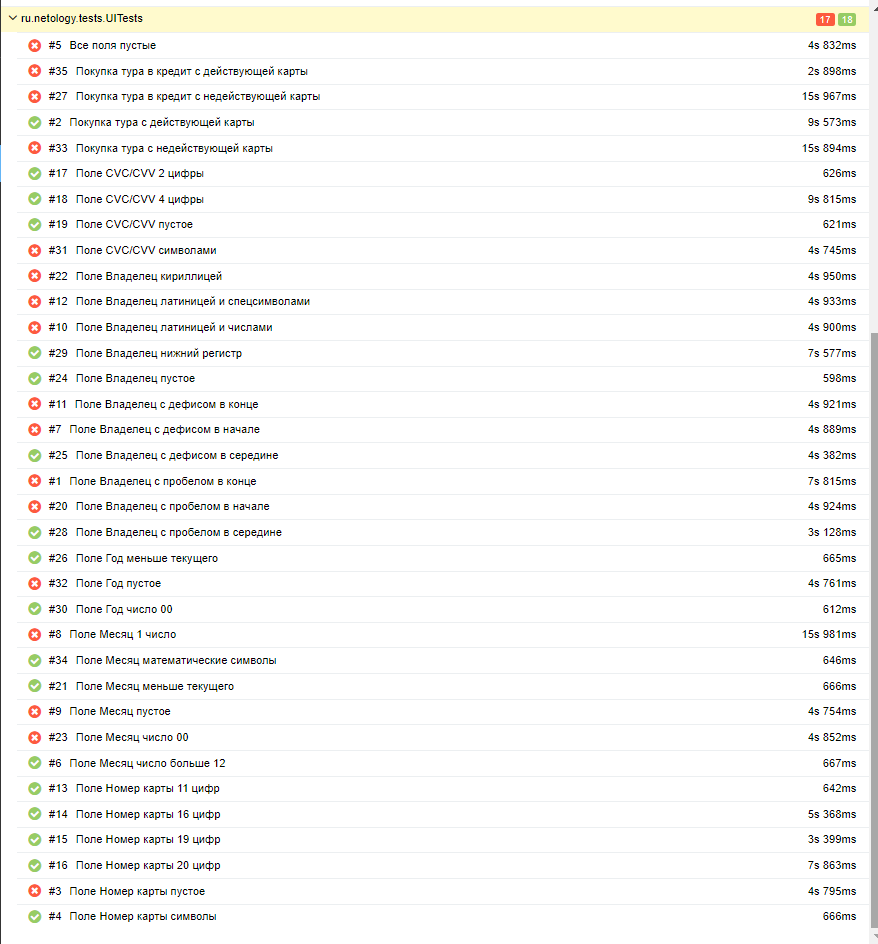
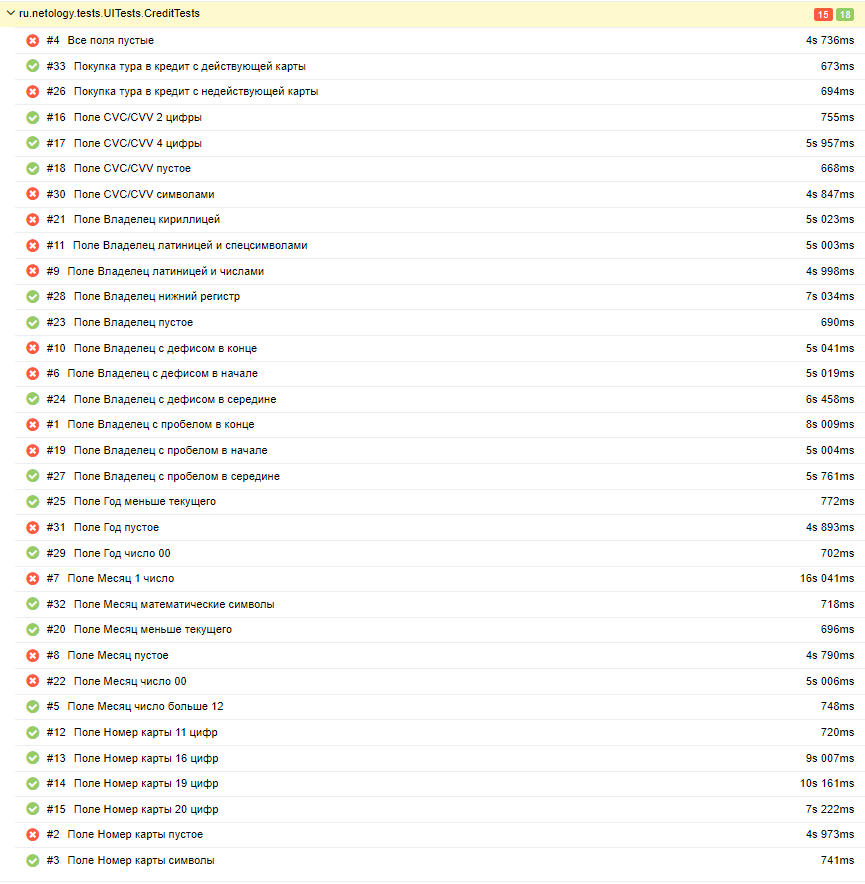
change tests

Changed region(s): [[0.0, 0.0, 1.0, 1.0]]

diff --git a/src/test/java/ru/netology/tests/UITests/PaymentTests.java b/src/test/java/ru/netology/tests/UITests/PaymentTests.java
@@ -39,9 +39,10 @@ public class PaymentTests {
 
     // Positive tests
 
-    @DisplayName("Покупка тура с действующей карты")
+
+    @DisplayName("Покупка тура с действующей карты ")
     @Test
-    public void shouldValidCardApproved() {
+    public void shouldValidCardApproved_2() {
         var mainPage = new MainPage();
         var cardInfo = DataHelper.getValidCardApproved();
         var paymentPage = mainPage.paymentButtonClick();
@@ -49,7 +50,6 @@ public class PaymentTests {
         var payments = SQLHelper.getPayments();
         assertEquals("APPROVED", payments.get(0).getStatus());
     }
-
     @DisplayName("Покупка тура с недействующей карты")
     @Test
     public void shouldValidCardDeclined() {

diff --git a/Reports/Report.md b/Reports/Report.md
@@ -11,15 +11,14 @@
 
 ## Количество тест-кейсов 
 
-Всего в тестировании проведено 51 теста:
+Всего в тестировании проведено 82 теста:
 
-* 22 пройдено успешно (43,13%)
-* 29 не пройдено (56,87%)
-
+* 40 пройдено успешно (48,78%)
+* 42 не пройдено (51,22%)
 ![img.png](img/img.png)
 ![img_1.png](img/img_1.png)
 ![img_2.png](img/img_2.png)
-
+![img_3.png](img/img_3.png)
 По результатам тестирования были заведены [баг-репорты](https://github.com/PniVedro/diplomQA/issues)
 
 ## Общие рекомендации
